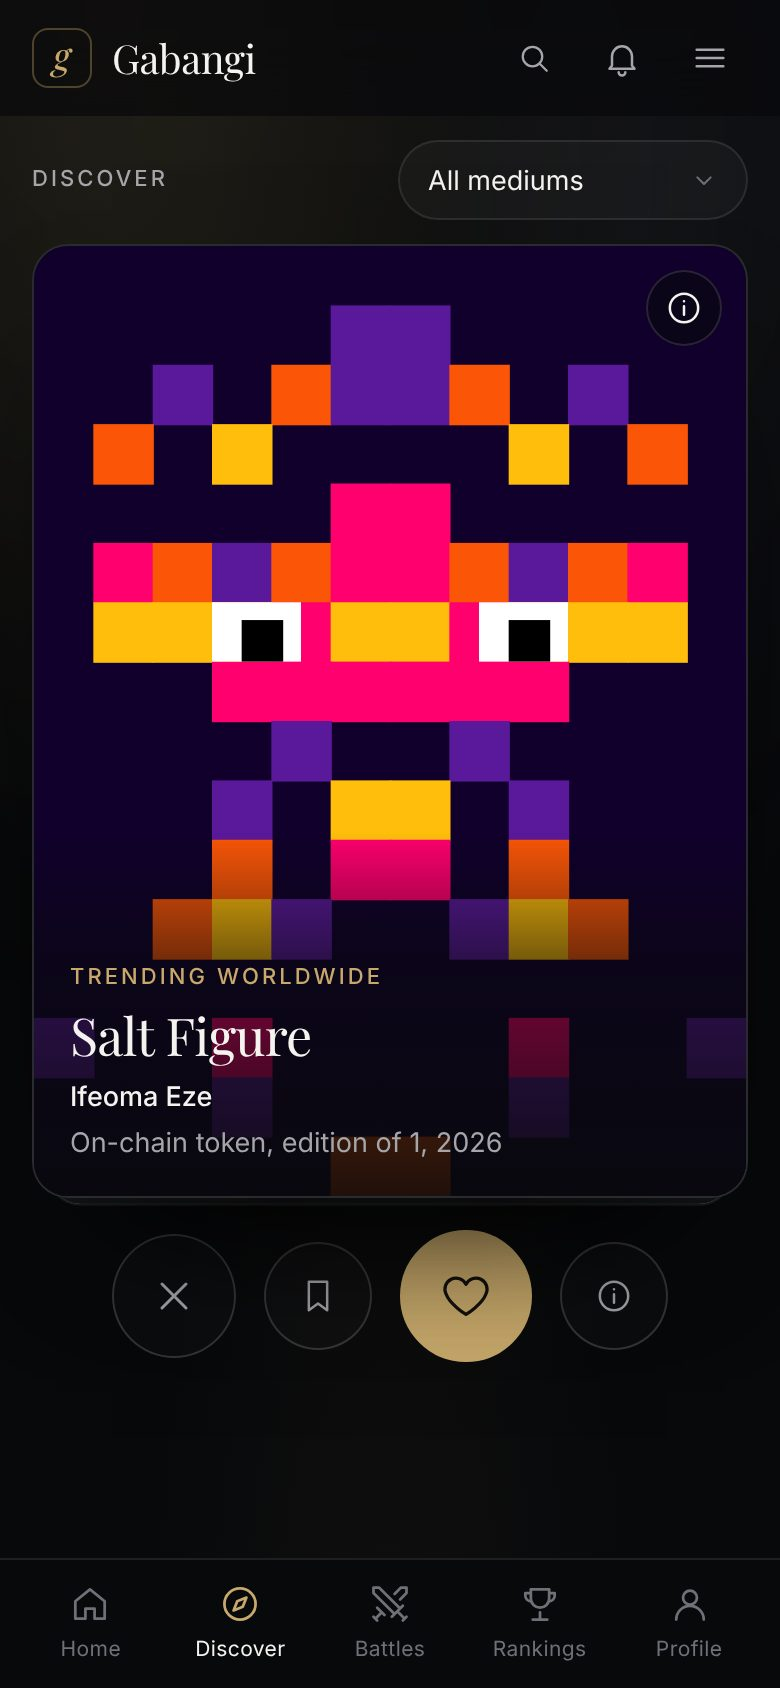
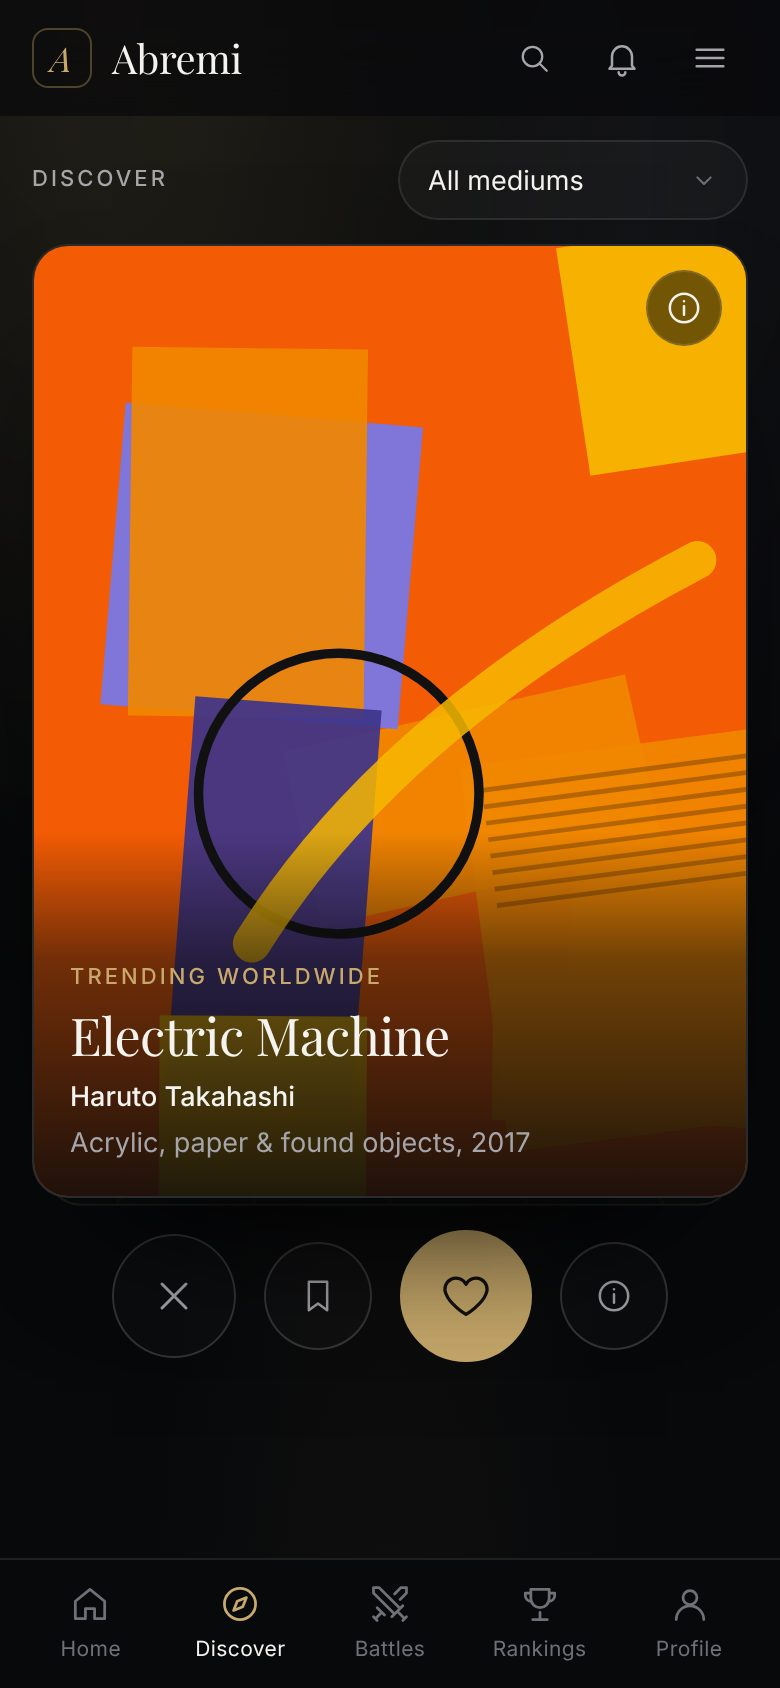
Rename the app from Gabangi to Abremi
- Name, title, home-screen name, copy, docs and pitch now say Abremi
- New icon: gold italic capital A (app icons, maskable, Apple touch
  icon, favicon, nav logo) and refreshed install screenshots
- Web address: abremi.vercel.app (docs and Supabase redirect patterns)
- Saved data moves from the old storage key (gabangi:v1) on first load,
  and the service worker removes caches stored under the old name
- iPhone install guide shows the address the visitor is actually on
- Browser test covers the data move for visitors from before the rename

Claude-Session: https://claude.ai/code/session_01CRGZse4GFmF6qDvAzutSSo

diff --git a/src/ui/app.js b/src/ui/app.js
@@ -26,7 +26,7 @@ let state = loadState();
 
 // Community mode: everyone's likes, follows and votes are shared through Supabase.
 // Demo mode (no configuration): everything stays on this device, exactly as before.
-const COMMUNITY = Boolean(window.__gabangiCloud || (SUPABASE_URL && SUPABASE_ANON_KEY));
+const COMMUNITY = Boolean(window.__abremiCloud || (SUPABASE_URL && SUPABASE_ANON_KEY));
 let cloud = null; // backend adapter, once connected
 let me = null; // signed-in account { id, email }
 let pendingWrites = 0;
@@ -280,12 +280,12 @@ function renderHome(root) {
       <div class="hero-copy">
         <p class="eyebrow">Art discovery, ranked by taste</p>
         <h1 class="display-xl">Find the work<br><em>that stops you.</em></h1>
-        <p class="lede">Gabangi is a private view of the world's emerging art. Swipe through paintings, photography, sculpture and new media. Collectors, critics and artists shape the rankings, so what rises has earned it.</p>
+        <p class="lede">Abremi is a private view of the world's emerging art. Swipe through paintings, photography, sculpture and new media. Collectors, critics and artists shape the rankings, so what rises has earned it.</p>
         <div class="hero-actions">
           <a class="btn btn-primary btn-lg" href="#discover"><span>Start discovering</span>${Icon('arrow', { size: 18 })}</a>
           <a class="btn btn-secondary btn-lg" href="#battle"><span>Enter an Art Battle</span></a>
         </div>
-        ${pwa?.status().available ? `<button class="link-arrow get-app" data-act="pwa-install">${Icon('download', { size: 16 })} Get the Gabangi app</button>` : ''}
+        ${pwa?.status().available ? `<button class="link-arrow get-app" data-act="pwa-install">${Icon('download', { size: 16 })} Get the Abremi app</button>` : ''}
         <dl class="hero-stats">
           <div><dt>Works</dt><dd>${totals.works}</dd></div>
           <div><dt>Artists</dt><dd>${totals.artists}</dd></div>
@@ -331,7 +331,7 @@ function renderHome(root) {
 }
 
 function footerHTML() {
-  return `<footer class="footer"><span class="brand-word">Gabangi</span><span>Every work, ranked by taste.</span><button class="link" data-act="about">About</button></footer>`;
+  return `<footer class="footer"><span class="brand-word">Abremi</span><span>Every work, ranked by taste.</span><button class="link" data-act="about">About</button></footer>`;
 }
 
 // ——— Discover (swipe) ———
@@ -567,7 +567,7 @@ function buySheet(id) {
       <p class="eyebrow">Acquire</p><h2 class="display-sm" id="modal-title">${esc(w.title)}</h2><p class="muted">${esc(a.name)} · ${esc(w.medium)}</p></div></header>
     <table class="receipt">
       <tr><td>Artwork</td><td>${money(b.price)}</td></tr>
-      <tr><td>Gabangi commission (${(b.rate * 100).toFixed(1).replace('.0', '')}%)</td><td>${money(b.fee)}</td></tr>
+      <tr><td>Abremi commission (${(b.rate * 100).toFixed(1).replace('.0', '')}%)</td><td>${money(b.fee)}</td></tr>
       <tr class="total"><td>Artist receives</td><td>${money(b.artistPayout)}</td></tr>
     </table>
     <p class="fine">The commission slides from 10% to 5% as the price rises. Buyers pay the listed price.</p>
@@ -858,7 +858,7 @@ function renderCollections(root) {
 function renderScan(root) {
   root.innerHTML = `<div class="shell scan">
     <header class="page-head page-head-center"><p class="eyebrow">Artwork recognition</p><h1 class="display-lg">Point. Identify. Discover.</h1>
-      <p class="lede">Photograph any artwork, in a gallery, on a wall or on a screen. Gabangi reads its style and medium, then finds artists working in the same vein.</p></header>
+      <p class="lede">Photograph any artwork, in a gallery, on a wall or on a screen. Abremi reads its style and medium, then finds artists working in the same vein.</p></header>
     <div class="scan-actions">
       <label class="dropzone"><input type="file" id="scan-file" accept="image/*" capture="environment">${Icon('scan', { size: 28 })}<b>Take or upload a photo</b><small>JPG, PNG or HEIC</small></label>
       ${PremiumButton('Try it on a random artwork', { act: 'scan-sample', variant: 'secondary', icon: 'spark' })}
@@ -1026,10 +1026,10 @@ function renderProfile(root) {
         <p class="plan-name">${p.name}</p><p class="plan-price">${p.price ? `${money(p.price)}<small>/month</small>` : 'Free'}</p>
         <ul>${p.features.map((x) => `<li>${Icon('check', { size: 16 })}${esc(x)}</li>`).join('')}</ul>
         ${p.id === state.user.plan ? '<span class="tag tag-gold">Current plan</span>' : PremiumButton(`Choose ${p.name}`, { act: 'set-plan', variant: p.id === 'pro' ? 'primary' : 'secondary', attrs: `data-v="${p.id}"` })}</div>`).join('')}</div>
-      <p class="fine">Artists pay nothing to start. Gabangi earns from memberships and a 5–10% marketplace commission.</p>
+      <p class="fine">Artists pay nothing to start. Abremi earns from memberships and a 5–10% marketplace commission.</p>
     </section>
 
-    <div class="profile-foot">${PremiumButton('About Gabangi', { act: 'about', variant: 'ghost' })}${PremiumButton('Reset demo data', { act: 'reset', variant: 'ghost', attrs: 'data-danger' })}</div>
+    <div class="profile-foot">${PremiumButton('About Abremi', { act: 'about', variant: 'ghost' })}${PremiumButton('Reset demo data', { act: 'reset', variant: 'ghost', attrs: 'data-danger' })}</div>
   </div>`;
 
   $('#name', root).addEventListener('change', (e) => {
@@ -1094,9 +1094,9 @@ async function onUpload(e) {
 
 function aboutSheet() {
   return `<div class="about">
-    <p class="eyebrow">About</p><h2 class="display-md" id="modal-title">Gabangi</h2>
+    <p class="eyebrow">About</p><h2 class="display-md" id="modal-title">Abremi</h2>
     <p class="lede">The Tinder and TikTok of art, curated like a private gallery.</p>
-    <p>People don't wake up saying “I want to upload art.” They wake up saying <em>“Show me something amazing.”</em> Gabangi makes finding art addictive. You swipe through paintings, photography, sculpture, street art, NFTs and AI art, discover emerging artists, and your taste moves the rankings.</p>
+    <p>People don't wake up saying “I want to upload art.” They wake up saying <em>“Show me something amazing.”</em> Abremi makes finding art addictive. You swipe through paintings, photography, sculpture, street art, NFTs and AI art, discover emerging artists, and your taste moves the rankings.</p>
     <h3 class="sub-head">Weighted influence</h3>
     <p>100 fan likes (100) + 20 artist likes (60) + 10 critic likes (50) + 5 collector likes (45) = <b>255 influence</b>. Collectors and critics shape the rankings, so throwaway accounts barely move them.</p>
     <h3 class="sub-head">Artwork first</h3>
@@ -1193,7 +1193,7 @@ function installCardHTML() {
   if (!st?.available) return '';
   return `<section class="install-card">
     <img src="icons/icon-192.png" alt="" width="56" height="56" class="install-icon">
-    <div><p class="eyebrow">Gabangi app</p><p><b>Put Gabangi on your home screen</b></p>
+    <div><p class="eyebrow">Abremi app</p><p><b>Put Abremi on your home screen</b></p>
     <p class="muted">Full screen, one tap away, and it works offline.</p></div>
     ${PremiumButton(st.canPrompt ? 'Install' : 'How to install', { act: 'pwa-install', variant: 'secondary', icon: 'download' })}
   </section>`;
@@ -1201,14 +1201,14 @@ function installCardHTML() {
 
 function iosInstallSheet() {
   return `<div class="install-guide">
-    <p class="eyebrow">Install Gabangi</p>
+    <p class="eyebrow">Install Abremi</p>
     <h2 class="display-md" id="modal-title">Add it to your Home Screen</h2>
     <ol class="steps">
       <li><span class="step-icon">${Icon('share', { size: 22 })}</span><div><b>Tap Share</b><small>The square with an arrow, in Safari’s toolbar. On iPad it’s at the top.</small></div></li>
       <li><span class="step-icon">${Icon('plusSquare', { size: 22 })}</span><div><b>Choose “Add to Home Screen”</b><small>Scroll down the list if you don’t see it.</small></div></li>
-      <li><span class="step-icon"><img src="icons/icon-192.png" alt="" width="26" height="26"></span><div><b>Tap Add</b><small>Gabangi opens full screen, like any other app.</small></div></li>
+      <li><span class="step-icon"><img src="icons/icon-192.png" alt="" width="26" height="26"></span><div><b>Tap Add</b><small>Abremi opens full screen, like any other app.</small></div></li>
     </ol>
-    <p class="fine">Don’t see Share? Open <b>gabangi.vercel.app</b> in Safari. Apps like Instagram use their own browser, which can’t install apps.</p>
+    <p class="fine">Don’t see Share? Open <b>${esc(location.host)}</b> in Safari. Apps like Instagram use their own browser, which can’t install apps.</p>
   </div>`;
 }
 
@@ -1219,7 +1219,7 @@ function refreshSheet() {
 
 function openSignIn() {
   if (!COMMUNITY) return;
-  if (!cloud) return toast('Connecting to Gabangi… try again in a moment.');
+  if (!cloud) return toast('Connecting to Abremi… try again in a moment.');
   if (me) { location.hash = 'profile'; return; }
   Object.assign(auth, { error: '', busy: false });
   if (auth.stage !== 'sent') auth.stage = 'email';
@@ -1246,7 +1246,7 @@ function signInSheet() {
   }
   const local = Object.values(state.interactions).filter((k) => k === 'like' || k === 'super').length;
   return `<div class="auth">
-    <p class="eyebrow">Join Gabangi</p>
+    <p class="eyebrow">Join Abremi</p>
     <h2 class="display-md" id="modal-title">Make your taste count</h2>
     <p class="muted">Members’ likes, saves, follows and battle votes shape the global rankings. Sign in with your email. There’s no password to remember.</p>
     <label class="field"><span>Email</span>
@@ -1298,7 +1298,7 @@ async function signedIn(user) {
   closeSheet();
   try {
     const imported = await syncAccount({ importGuest: true });
-    toast(imported ? `Welcome. ${imported} item${imported === 1 ? '' : 's'} from this device added to your account.` : 'Welcome to Gabangi. Your votes now count.', { force: true, duration: 3500 });
+    toast(imported ? `Welcome. ${imported} item${imported === 1 ? '' : 's'} from this device added to your account.` : 'Welcome to Abremi. Your votes now count.', { force: true, duration: 3500 });
   } catch {
     toast('Signed in, but your account could not be loaded. Reload to try again.', { force: true });
   }
@@ -1366,7 +1366,7 @@ async function resync() {
 async function connectCommunity() {
   if (!COMMUNITY) return;
   try {
-    cloud = window.__gabangiCloud ? await window.__gabangiCloud() : await createSupabaseCloud(SUPABASE_URL, SUPABASE_ANON_KEY);
+    cloud = window.__abremiCloud ? await window.__abremiCloud() : await createSupabaseCloud(SUPABASE_URL, SUPABASE_ANON_KEY);
     const hadTokens = /access_token|error_description/.test(location.hash);
     const errorText = hadTokens ? new URLSearchParams(location.hash.slice(1)).get('error_description') : null;
     const user = await cloud.init();
@@ -1376,7 +1376,7 @@ async function connectCommunity() {
       const switched = state.account && state.account.id !== user.id;
       me = user;
       await syncAccount({ importGuest: !state.account || switched });
-      if (hadTokens) toast('Welcome to Gabangi. Your votes now count.');
+      if (hadTokens) toast('Welcome to Abremi. Your votes now count.');
     } else {
       if (state.account) signedOut(); // session expired elsewhere
       await refreshCommunity();
@@ -1386,7 +1386,7 @@ async function connectCommunity() {
       else if (u && (event === 'SIGNED_IN' || event === 'TOKEN_REFRESHED') && me?.id !== u.id) signedIn(u);
     });
   } catch (e) {
-    console.warn('Gabangi community unavailable', e);
+    console.warn('Abremi community unavailable', e);
     toast('Community rankings are offline. Showing the last ones saved.', { duration: 4000 });
   }
   if (!sheetRenderer) renderView();

diff --git a/tests/db.test.js b/tests/db.test.js
@@ -1,6 +1,6 @@
 // Database tests: run the Supabase migration on a real Postgres and check the security rules.
-// Skipped unless GABANGI_PG holds psql connection flags, e.g.
-//   GABANGI_PG="-h /tmp/gabangi-pg -p 54329 -U postgres" npm run test:db
+// Skipped unless ABREMI_PG holds psql connection flags, e.g.
+//   ABREMI_PG="-h /tmp/abremi-pg -p 54329 -U postgres" npm run test:db
 import test from 'node:test';
 import assert from 'node:assert/strict';
 import { execFileSync } from 'node:child_process';
@@ -9,9 +9,9 @@ import { battleResult, expectedScore } from '../src/core/elo.js';
 import { buildSeedWorld } from '../src/core/seed.js';
 import { seedSQL, setupSQL } from '../scripts/gen-seed-sql.js';
 
-const flags = process.env.GABANGI_PG?.split(/\s+/).filter(Boolean);
-const skip = !flags && 'set GABANGI_PG to run database tests';
-let DB = `gabangi_test_${process.pid}`;
+const flags = process.env.ABREMI_PG?.split(/\s+/).filter(Boolean);
+const skip = !flags && 'set ABREMI_PG to run database tests';
+let DB = `abremi_test_${process.pid}`;
 const file = (p) => readFileSync(new URL(`../${p}`, import.meta.url), 'utf8');
 
 function psql(sql, db = DB) {
@@ -62,7 +62,7 @@ function noRowsFor(who, sql) {
 
 for (const [mode, stub] of Object.entries(STUBS)) test(`database (${mode})`, { skip }, async (t) => {
   assert.notEqual(STUBS['tables exposed by default'], STUBS['tables not exposed by default'], 'strict stub must differ');
-  DB = `gabangi_test_${process.pid}_${mode.startsWith('tables exposed') ? 'open' : 'strict'}`;
+  DB = `abremi_test_${process.pid}_${mode.startsWith('tables exposed') ? 'open' : 'strict'}`;
   psql(`drop database if exists ${DB}`, 'postgres');
   psql(`create database ${DB}`, 'postgres');
   t.after(() => psql(`drop database if exists ${DB}`, 'postgres'));

diff --git a/index.html b/index.html
@@ -9,10 +9,10 @@
   <link rel="apple-touch-icon" href="icons/apple-touch-icon.png">
   <meta name="apple-mobile-web-app-capable" content="yes">
   <meta name="mobile-web-app-capable" content="yes">
-  <meta name="apple-mobile-web-app-title" content="Gabangi">
+  <meta name="apple-mobile-web-app-title" content="Abremi">
   <meta name="apple-mobile-web-app-status-bar-style" content="black-translucent">
-  <meta name="description" content="Gabangi — discover, collect and rank contemporary art. Every work, ranked by taste.">
-  <title>Gabangi</title>
+  <meta name="description" content="Abremi — discover, collect and rank contemporary art. Every work, ranked by taste.">
+  <title>Abremi</title>
   <link rel="icon" type="image/png" sizes="32x32" href="icons/favicon-32.png">
   <link rel="preconnect" href="https://fonts.googleapis.com">
   <link rel="preconnect" href="https://fonts.gstatic.com" crossorigin>
@@ -25,7 +25,7 @@
 
   <header class="nav" id="nav">
     <div class="nav-inner">
-      <a class="brand" href="#home" aria-label="Gabangi home"><span class="brand-mark">g</span><span class="brand-word">Gabangi</span></a>
+      <a class="brand" href="#home" aria-label="Abremi home"><span class="brand-mark">A</span><span class="brand-word">Abremi</span></a>
       <nav class="nav-links" aria-label="Primary">
         <a href="#discover" data-view="discover">Discover</a>
         <a href="#explore" data-view="explore">Explore</a>
@@ -97,7 +97,7 @@
   </div>
 
   <div class="toast" id="toast" role="status" aria-live="polite"></div>
-  <noscript><p class="shell">Gabangi needs JavaScript to run.</p></noscript>
+  <noscript><p class="shell">Abremi needs JavaScript to run.</p></noscript>
   <script type="module" src="src/ui/app.js"></script>
 </body>
 </html>

diff --git a/sw.js b/sw.js
@@ -1,12 +1,12 @@
-/* Gabangi service worker
- * - The app shell (HTML, scripts, styles, icons) is precached, so Gabangi opens offline.
+/* Abremi service worker
+ * - The app shell (HTML, scripts, styles, icons) is precached, so Abremi opens offline.
  * - Each deploy gets a new VERSION, so updates are never stuck behind a stale cache;
  *   the page offers a "Refresh" prompt when a new version is waiting.
  * - Live data and sign-in (Supabase) always go to the network and are never cached.
  */
 
 // ——— generated by scripts/gen-sw.js — do not edit between these markers ———
-const VERSION = 'b0e2b3a40d49';
+const VERSION = '59fdadd54771';
 const ASSETS = [
   "./",
   "./index.html",
@@ -38,8 +38,8 @@ const ASSETS = [
 ];
 // ——— end generated ———
 
-const SHELL = `gabangi-shell-${VERSION}`;
-const RUNTIME = 'gabangi-runtime-v1';
+const SHELL = `abremi-shell-${VERSION}`;
+const RUNTIME = 'abremi-runtime-v1';
 const RUNTIME_HOSTS = ['fonts.googleapis.com', 'fonts.gstatic.com', 'cdn.jsdelivr.net'];
 const PAGE_TIMEOUT_MS = 4000;
 
@@ -50,7 +50,9 @@ self.addEventListener('install', (event) => {
 self.addEventListener('activate', (event) => {
   event.waitUntil((async () => {
     const keys = await caches.keys();
-    await Promise.all(keys.filter((k) => k.startsWith('gabangi-shell-') && k !== SHELL).map((k) => caches.delete(k)));
+    // Old versions, plus caches from before the rename to Abremi.
+    const stale = (k) => (k.startsWith('abremi-shell-') && k !== SHELL) || k.startsWith('gabangi-');
+    await Promise.all(keys.filter(stale).map((k) => caches.delete(k)));
     await self.clients.claim();
   })());
 });

diff --git a/scripts/write-config.js b/scripts/write-config.js
@@ -30,7 +30,7 @@ export function resolveConfig(env) {
 
 export function configSource({ url, key }) {
   return `// Written at deploy time by scripts/write-config.js from the project's environment variables.
-// Empty values run Gabangi in demo mode: everything stays on the visitor's device.
+// Empty values run Abremi in demo mode: everything stays on the visitor's device.
 export const SUPABASE_URL = ${JSON.stringify(url)};
 export const SUPABASE_ANON_KEY = ${JSON.stringify(key)};
 `;
@@ -39,7 +39,7 @@ export const SUPABASE_ANON_KEY = ${JSON.stringify(key)};
 if (process.argv[1] === fileURLToPath(import.meta.url)) {
   const cfg = resolveConfig(process.env);
   writeFileSync(new URL('../src/config.js', import.meta.url), configSource(cfg));
-  console.log(cfg.mode === 'community' ? `Gabangi: community mode (${new URL(cfg.url).host})` : 'Gabangi: demo mode (no Supabase environment variables found)');
+  console.log(cfg.mode === 'community' ? `Abremi: community mode (${new URL(cfg.url).host})` : 'Abremi: demo mode (no Supabase environment variables found)');
   // The config is part of the offline app, so the service worker version must reflect it.
-  console.log(`Gabangi: service worker version ${stampServiceWorker()}`);
+  console.log(`Abremi: service worker version ${stampServiceWorker()}`);
 }

diff --git a/src/ui/styles.css b/src/ui/styles.css
@@ -1,5 +1,5 @@
 /* ==========================================================================
-   Gabangi design system
+   Abremi design system
    Dark, quiet, editorial. The artwork provides the colour.
    ========================================================================== */
 
@@ -138,7 +138,7 @@ ol, ul { padding: 0; list-style: none; }
 .nav-inner { height: 100%; max-width: 1280px; margin: 0 auto; padding: 0 var(--gutter); display: flex; align-items: center; gap: 32px; }
 .brand { display: inline-flex; align-items: center; gap: 10px; }
 .brand-mark { width: 30px; height: 30px; border-radius: 8px; display: grid; place-items: center; border: 1px solid var(--gold-line);
-  font-family: var(--serif); font-style: italic; font-size: 19px; line-height: 1; color: var(--gold); padding-bottom: 3px; }
+  font-family: var(--serif); font-style: italic; font-size: 17px; line-height: 1; color: var(--gold); padding: 1px 1px 0 0; }
 .brand-word { font-family: var(--serif); font-size: 21px; letter-spacing: -0.01em; }
 .nav-links { display: flex; gap: 4px; }
 .nav-links a { position: relative; padding: 8px 12px; font-size: 14px; color: var(--text-2); border-radius: var(--r-pill); transition: color var(--dur) var(--ease); }

diff --git a/src/ui/pwa.js b/src/ui/pwa.js
@@ -21,7 +21,7 @@ export function initPWA(hooks) {
   });
   window.addEventListener('appinstalled', () => {
     deferredPrompt = null;
-    hooks.toast('Gabangi is on your home screen', { force: true });
+    hooks.toast('Abremi is on your home screen', { force: true });
     hooks.onChange();
   });
   window.matchMedia('(display-mode: standalone)').addEventListener?.('change', () => {
@@ -42,7 +42,7 @@ export function initPWA(hooks) {
   if ('serviceWorker' in navigator && secure) {
     const offerUpdate = (worker) => {
       waitingWorker = worker;
-      hooks.toast('A new version of Gabangi is ready', { action: 'Refresh', act: 'pwa-update', duration: 12000, force: true });
+      hooks.toast('A new version of Abremi is ready', { action: 'Refresh', act: 'pwa-update', duration: 12000, force: true });
     };
     navigator.serviceWorker.addEventListener('controllerchange', () => {
       if (updateRequested) location.reload(); // only after the person asked; first installs claim silently

diff --git a/src/ui/store.js b/src/ui/store.js
@@ -3,7 +3,9 @@
 
 import { emptyTaste } from '../core/feed.js';
 
-const KEY = 'gabangi:v1';
+const KEY = 'abremi:v1';
+// Saved before the rename to Abremi; moved over on first load so nobody loses their data.
+const LEGACY_KEYS = ['gabangi:v1'];
 
 export function defaultState() {
   return {
@@ -26,7 +28,15 @@ export function defaultState() {
 
 export function loadState() {
   try {
-    const raw = localStorage.getItem(KEY);
+    let raw = localStorage.getItem(KEY);
+    if (!raw) {
+      const legacy = LEGACY_KEYS.find((k) => localStorage.getItem(k));
+      if (legacy) {
+        raw = localStorage.getItem(legacy);
+        localStorage.setItem(KEY, raw);
+        localStorage.removeItem(legacy);
+      }
+    }
     if (!raw) return defaultState();
     return { ...defaultState(), ...JSON.parse(raw) };
   } catch {

diff --git a/tests/e2e/mock-cloud.js b/tests/e2e/mock-cloud.js
@@ -2,7 +2,7 @@
 // Same methods as src/ui/cloud.js; enforces the same rules as the SQL migration
 // (server-stamped roles, critic-only reviews, admin-only Critic/Collector, Elo maths).
 // Data lives in localStorage under "mockcloud" so it survives reloads and is shared by tabs.
-window.__gabangiCloud = async () => {
+window.__abremiCloud = async () => {
   const { buildSeedWorld } = await import('/src/core/seed.js');
   const { battleResult, expectedScore } = await import('/src/core/elo.js');
   const seed = buildSeedWorld();

diff --git a/scripts/gen-seed-sql.js b/scripts/gen-seed-sql.js
@@ -25,7 +25,7 @@ export function seedSQL() {
 
 export function setupSQL() {
   const migration = readFileSync(new URL('../supabase/migrations/0001_community.sql', import.meta.url), 'utf8');
-  return `-- Gabangi: complete database setup. Paste this whole file into Supabase → SQL Editor → Run.
+  return `-- Abremi: complete database setup. Paste this whole file into Supabase → SQL Editor → Run.
 -- Safe to run again. Generated by scripts/gen-seed-sql.js; do not edit by hand.
 
 ${migration}

diff --git a/src/config.js b/src/config.js
@@ -1,4 +1,4 @@
 // Written at deploy time by scripts/write-config.js from the project's environment variables.
-// Empty values run Gabangi in demo mode: everything stays on the visitor's device.
+// Empty values run Abremi in demo mode: everything stays on the visitor's device.
 export const SUPABASE_URL = "";
 export const SUPABASE_ANON_KEY = "";

diff --git a/scripts/serve.js b/scripts/serve.js
@@ -23,4 +23,4 @@ createServer(async (req, res) => {
   } catch {
     res.writeHead(404, { 'content-type': 'text/plain' }).end('Not found');
   }
-}).listen(port, () => console.log(`Gabangi running at http://localhost:${port}`));
+}).listen(port, () => console.log(`Abremi running at http://localhost:${port}`));
